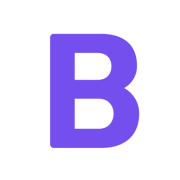
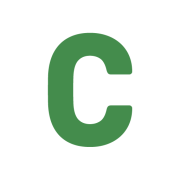
change site name

Changed region(s): [[0.25, 0.1667, 0.7778, 0.8333]]

diff --git a/components/Logo.vue b/components/Logo.vue
@@ -1,85 +1,40 @@
 <template>
   <h1 class="logo">
-    <svg class="logoImg" xmlns="http://www.w3.org/2000/svg" viewBox="0 0 125.89 16.23">
-      <title>Brueghel</title>
-      <g stroke="#7f7f7f">
-        <path
-          d="M.75,12.19c-.11,0-.2-.04-.27-.12-.07-.08-.11-.18-.11-.3V.96c0-.12,.04-.22,.11-.3,.07-.08,.16-.12,.27-.12H5.33c.86,0,1.56,.13,2.12,.4,.55,.27,.96,.65,1.22,1.14,.26,.49,.4,1.08,.4,1.76,0,.4-.07,.75-.2,1.06-.13,.3-.3,.56-.5,.76-.19,.2-.38,.34-.55,.43,.38,.2,.72,.53,1.01,.98,.29,.46,.44,.99,.44,1.6,0,.73-.15,1.36-.44,1.89-.3,.53-.73,.93-1.29,1.21-.57,.28-1.26,.42-2.08,.42H.75ZM3.06,5.17h1.96c.41,0,.72-.12,.92-.35,.21-.23,.31-.53,.31-.9s-.1-.65-.31-.87-.51-.34-.92-.34h-1.96v2.46Zm0,4.86h2.1c.43,0,.75-.14,.97-.42,.22-.28,.33-.59,.33-.95,0-.39-.11-.72-.34-.98-.23-.27-.55-.4-.97-.4H3.06v2.75Z"
-          style="fill: #fff; stroke-miterlimit: 10; stroke-width: 0.75px"
-        />
-        <path
-          d="M11.14,12.19c-.11,0-.2-.04-.27-.12-.07-.08-.11-.18-.11-.3V3.95c0-.11,.04-.21,.11-.29,.07-.08,.16-.12,.27-.12h1.73c.11,0,.2,.04,.27,.12,.07,.08,.11,.18,.11,.29v.67c.27-.34,.59-.61,.97-.8,.38-.19,.8-.28,1.27-.28h.66c.1,0,.19,.04,.26,.12s.11,.18,.11,.3v1.71c0,.11-.04,.21-.11,.29-.08,.08-.16,.12-.26,.12h-1.46c-.41,0-.73,.12-.95,.38-.23,.25-.34,.6-.34,1.06v4.26c0,.12-.04,.22-.11,.3-.08,.08-.17,.12-.28,.12h-1.86Z"
-          style="fill: #fff; stroke-miterlimit: 10; stroke-width: 0.75px"
-        />
-        <path
-          d="M20.44,12.36c-.57,0-1.08-.14-1.52-.43-.45-.29-.79-.71-1.04-1.27-.25-.56-.38-1.25-.38-2.06V3.95c0-.12,.04-.22,.11-.3,.07-.08,.16-.12,.27-.12h1.88c.11,0,.2,.04,.27,.12,.07,.08,.1,.18,.1,.3v4.54c0,1.09,.44,1.63,1.32,1.63,.41,0,.74-.14,.98-.42s.37-.68,.37-1.21V3.95c0-.12,.03-.22,.1-.3s.16-.12,.27-.12h1.88c.11,0,.2,.04,.27,.12s.11,.18,.11,.3v7.82c0,.12-.04,.22-.11,.3-.07,.08-.16,.12-.27,.12h-1.74c-.1,0-.19-.04-.26-.12-.08-.08-.11-.18-.11-.3v-.63c-.26,.4-.6,.7-1.01,.91s-.91,.31-1.48,.31Z"
-          style="fill: #fff; stroke-miterlimit: 10; stroke-width: 0.75px"
-        />
-        <path
-          d="M30.79,12.36c-1.18,0-2.12-.35-2.82-1.06s-1.07-1.76-1.09-3.16v-.58c.03-.88,.21-1.63,.53-2.25s.77-1.1,1.35-1.43,1.25-.49,2.02-.49c.88,0,1.61,.19,2.18,.58s1.01,.92,1.3,1.58c.29,.67,.43,1.43,.43,2.28v.4c0,.12-.04,.22-.11,.3-.08,.08-.16,.12-.26,.12h-4.8v.12c0,.32,.06,.62,.15,.88,.09,.27,.23,.48,.42,.63,.19,.16,.42,.23,.69,.23,.2,0,.37-.04,.5-.11s.25-.16,.34-.25c.09-.09,.16-.17,.21-.24,.09-.11,.16-.18,.22-.21,.05-.03,.14-.04,.26-.04h1.86c.1,0,.18,.03,.25,.09,.07,.06,.09,.15,.08,.26-.01,.19-.1,.42-.26,.68-.16,.27-.39,.53-.7,.79s-.69,.47-1.15,.64c-.46,.17-1,.25-1.6,.25Zm-1.28-5.38h2.54v-.03c0-.35-.05-.67-.14-.93s-.24-.47-.43-.62c-.2-.14-.43-.22-.7-.22s-.5,.07-.68,.22c-.18,.14-.33,.35-.43,.62-.1,.27-.15,.58-.15,.93v.03Z"
-          style="fill: #fff; stroke-miterlimit: 10; stroke-width: 0.75px"
-        />
-        <path
-          d="M39.93,15.85c-.77,0-1.41-.11-1.91-.33-.51-.22-.91-.49-1.2-.8-.29-.31-.51-.62-.64-.92-.13-.31-.2-.55-.21-.72,0-.12,.02-.22,.11-.3,.08-.08,.17-.12,.28-.12h1.91c.09,0,.17,.03,.23,.08s.12,.14,.16,.26c.05,.12,.12,.25,.2,.38s.21,.24,.36,.32c.16,.08,.37,.12,.64,.12,.3,0,.55-.05,.75-.16s.35-.28,.45-.52,.15-.56,.15-.96v-1.12c-.23,.28-.53,.5-.89,.67-.36,.17-.79,.26-1.3,.26s-.96-.08-1.35-.25c-.39-.17-.72-.42-.98-.75s-.46-.74-.61-1.21c-.14-.48-.23-1.03-.26-1.65,0-.29,0-.58,0-.87,.03-.6,.12-1.14,.26-1.61,.14-.48,.34-.89,.61-1.23,.26-.34,.59-.61,.98-.79,.39-.18,.84-.27,1.35-.27,.54,0,1,.11,1.39,.34s.7,.51,.95,.86v-.62c0-.11,.04-.21,.11-.29,.07-.08,.16-.12,.27-.12h1.73c.11,0,.2,.04,.28,.12,.08,.08,.11,.18,.11,.29V11.96c0,.84-.16,1.55-.46,2.13-.31,.58-.75,1.02-1.33,1.31-.58,.3-1.29,.45-2.12,.45Zm-.1-6.01c.32,0,.58-.08,.78-.23,.2-.16,.35-.35,.44-.6,.1-.24,.15-.5,.16-.78,0-.12,.01-.29,.01-.52s0-.39-.01-.5c-.01-.29-.06-.55-.16-.8-.09-.24-.24-.44-.44-.59s-.46-.22-.78-.22-.59,.08-.79,.23-.33,.37-.42,.63-.14,.56-.16,.88c-.01,.25-.01,.49,0,.75,.02,.32,.07,.62,.16,.88,.08,.27,.22,.48,.42,.63,.2,.16,.46,.23,.79,.23Z"
-          style="fill: #fff; stroke-miterlimit: 10; stroke-width: 0.75px"
-        />
-        <path
-          d="M45.99,12.19c-.11,0-.2-.04-.27-.12-.07-.08-.11-.18-.11-.3V.79c0-.12,.04-.22,.11-.3,.07-.08,.16-.12,.27-.12h1.92c.11,0,.2,.04,.27,.12,.07,.08,.1,.18,.1,.3v3.71c.27-.34,.6-.62,1-.82,.39-.21,.85-.31,1.37-.31,.58,0,1.1,.14,1.55,.43,.46,.29,.81,.71,1.07,1.27s.39,1.25,.39,2.06v4.64c0,.12-.04,.22-.11,.3-.07,.08-.16,.12-.27,.12h-1.94c-.1,0-.19-.04-.26-.12-.07-.08-.11-.18-.11-.3V7.23c0-.52-.11-.92-.34-1.21-.23-.28-.56-.42-1-.42-.41,0-.74,.14-.99,.42-.25,.28-.38,.68-.38,1.21v4.54c0,.12-.04,.22-.1,.3-.07,.08-.16,.12-.27,.12h-1.92Z"
-          style="fill: #fff; stroke-miterlimit: 10; stroke-width: 0.75px"
-        />
-        <path
-          d="M58.96,12.36c-1.18,0-2.12-.35-2.82-1.06s-1.07-1.76-1.09-3.16v-.58c.03-.88,.21-1.63,.53-2.25s.77-1.1,1.35-1.43,1.25-.49,2.02-.49c.88,0,1.61,.19,2.18,.58s1.01,.92,1.3,1.58c.29,.67,.43,1.43,.43,2.28v.4c0,.12-.04,.22-.11,.3-.08,.08-.16,.12-.26,.12h-4.8v.12c0,.32,.06,.62,.15,.88,.09,.27,.23,.48,.42,.63,.19,.16,.42,.23,.69,.23,.2,0,.37-.04,.5-.11s.25-.16,.34-.25c.09-.09,.16-.17,.21-.24,.09-.11,.16-.18,.22-.21,.05-.03,.14-.04,.26-.04h1.86c.1,0,.18,.03,.25,.09,.07,.06,.09,.15,.08,.26-.01,.19-.1,.42-.26,.68-.16,.27-.39,.53-.7,.79s-.69,.47-1.15,.64c-.46,.17-1,.25-1.6,.25Zm-1.28-5.38h2.54v-.03c0-.35-.05-.67-.14-.93s-.24-.47-.43-.62c-.2-.14-.43-.22-.7-.22s-.5,.07-.68,.22c-.18,.14-.33,.35-.43,.62-.1,.27-.15,.58-.15,.93v.03Z"
-          style="fill: #fff; stroke-miterlimit: 10; stroke-width: 0.75px"
-        />
-        <path
-          d="M64.65,12.19c-.11,0-.2-.04-.27-.12-.07-.08-.11-.18-.11-.3V.79c0-.12,.04-.22,.11-.3,.07-.08,.16-.12,.27-.12h1.77c.11,0,.2,.04,.27,.12,.07,.08,.11,.18,.11,.3V11.78c0,.12-.04,.22-.11,.3-.07,.08-.16,.12-.27,.12h-1.77Z"
-          style="fill: #fff; stroke-miterlimit: 10; stroke-width: 0.75px"
-        />
-      </g>
-      <g fill="#7f7f7f">
-        <path
-          d="M70.91,6.78c-.05,0-.09-.02-.12-.05-.03-.04-.05-.09-.05-.15v-.61c0-.06,.02-.1,.05-.14,.03-.04,.07-.06,.12-.06h.64c.05,0,.09,.02,.13,.06,.03,.04,.05,.09,.05,.14v.61c0,.06-.02,.11-.05,.15-.03,.04-.07,.05-.13,.05h-.64Zm.03,5.1s-.09-.02-.12-.06c-.03-.04-.05-.09-.05-.14v-3.97c0-.06,.02-.1,.05-.14,.03-.04,.07-.06,.12-.06h.58c.05,0,.09,.02,.12,.06s.05,.09,.05,.14v3.97c0,.06-.01,.1-.05,.14s-.07,.06-.12,.06h-.58Z"
-        />
-        <path
-          d="M72.79,11.88s-.09-.02-.12-.06c-.03-.04-.05-.09-.05-.14v-3.97c0-.06,.02-.1,.05-.14,.03-.04,.07-.06,.12-.06h.55s.09,.02,.12,.06,.05,.09,.05,.14v.29c.1-.16,.23-.29,.4-.4,.17-.11,.36-.17,.59-.17,.53-.01,.9,.24,1.11,.75,.11-.22,.26-.4,.47-.54,.2-.14,.43-.21,.68-.21s.46,.07,.66,.2c.2,.13,.36,.34,.47,.61,.11,.27,.17,.61,.17,1.03v2.41c0,.06-.02,.1-.05,.14s-.07,.06-.12,.06h-.58s-.09-.02-.12-.06-.05-.09-.05-.14v-2.35c0-.25-.03-.45-.09-.6-.06-.15-.14-.25-.24-.32-.1-.06-.22-.09-.34-.09-.1,0-.21,.03-.31,.09-.1,.06-.19,.17-.25,.32-.07,.15-.1,.35-.1,.6v2.35c0,.06-.02,.1-.05,.14s-.07,.06-.12,.06h-.58c-.05,0-.09-.02-.12-.06s-.05-.09-.05-.14v-2.35c0-.25-.03-.45-.1-.6s-.15-.25-.25-.32c-.1-.06-.21-.09-.33-.09-.11,0-.21,.03-.32,.1-.1,.06-.19,.17-.25,.32s-.1,.34-.1,.6v2.35c0,.06-.02,.1-.05,.14s-.07,.06-.12,.06h-.59Z"
-        />
-        <path
-          d="M80.01,11.96c-.24,0-.46-.06-.66-.17s-.35-.27-.47-.46c-.11-.19-.17-.41-.17-.65,0-.39,.13-.7,.4-.94,.26-.23,.61-.39,1.05-.47l.96-.17v-.18c0-.24-.05-.42-.15-.55-.1-.13-.27-.19-.5-.19-.17,0-.31,.04-.41,.12-.1,.08-.18,.19-.23,.32-.04,.07-.09,.11-.16,.11h-.55c-.05,0-.09-.02-.11-.05-.03-.03-.04-.08-.04-.13,0-.09,.03-.2,.09-.33,.06-.13,.15-.25,.27-.37s.28-.22,.47-.31,.42-.13,.69-.13c.3,0,.54,.04,.75,.13,.2,.09,.36,.2,.49,.35,.12,.15,.21,.32,.27,.51,.06,.2,.08,.4,.08,.62v2.64c0,.06-.02,.1-.05,.14s-.07,.06-.12,.06h-.57c-.05,0-.09-.02-.12-.06-.03-.04-.05-.09-.05-.14v-.33c-.06,.11-.14,.21-.24,.3-.1,.09-.23,.17-.38,.23-.15,.06-.32,.09-.52,.09Zm.24-.8c.16,0,.31-.04,.45-.13,.13-.08,.24-.22,.32-.39s.12-.4,.12-.67v-.18l-.7,.13c-.28,.05-.48,.13-.62,.24-.13,.11-.2,.25-.2,.41,0,.12,.03,.23,.09,.32,.06,.09,.14,.15,.24,.19,.1,.04,.2,.06,.31,.06Z"
-        />
-        <path
-          d="M84.6,13.73c-.34,0-.62-.05-.84-.16-.22-.11-.39-.24-.52-.39-.13-.15-.22-.3-.27-.45s-.08-.26-.09-.35c0-.06,.01-.1,.05-.15,.03-.04,.08-.06,.12-.06h.61s.08,.01,.11,.04c.03,.03,.05,.07,.07,.14,.03,.07,.07,.15,.11,.24,.05,.08,.12,.16,.21,.21s.23,.09,.4,.09c.18,0,.33-.03,.45-.09,.12-.06,.21-.17,.28-.31s.09-.35,.09-.61v-.57c-.11,.16-.26,.29-.43,.4-.18,.1-.39,.15-.65,.15s-.47-.05-.65-.15-.33-.24-.46-.41c-.12-.18-.21-.39-.28-.63-.06-.24-.1-.51-.11-.8,0-.15,0-.3,0-.45,0-.28,.04-.54,.11-.78,.06-.24,.15-.45,.28-.63,.12-.18,.28-.32,.46-.42s.4-.15,.65-.15c.27,0,.49,.06,.67,.18s.33,.27,.45,.45v-.34c0-.06,.02-.11,.05-.15s.07-.06,.12-.06h.57s.09,.02,.12,.06,.05,.09,.05,.15v4.05c0,.4-.06,.75-.18,1.04-.13,.29-.32,.52-.57,.68-.26,.16-.58,.24-.98,.24Zm-.03-2.77c.19,0,.35-.05,.46-.15,.12-.1,.2-.23,.26-.39s.09-.33,.1-.5c0-.07,0-.16,0-.28s0-.2,0-.27c0-.17-.04-.34-.1-.5-.06-.16-.14-.29-.26-.4-.12-.1-.27-.16-.46-.16s-.35,.05-.46,.16c-.12,.1-.2,.24-.25,.41-.05,.17-.08,.35-.09,.55,0,.13,0,.27,0,.41,0,.2,.04,.38,.09,.55,.05,.17,.13,.31,.25,.41,.12,.1,.27,.15,.46,.15Z"
-        />
-        <path
-          d="M88.85,11.96c-.52,0-.93-.18-1.23-.54-.3-.36-.47-.87-.49-1.53,0-.06,0-.13,0-.21s0-.16,0-.21c.02-.42,.1-.78,.24-1.09,.14-.31,.34-.55,.59-.71,.25-.17,.55-.25,.89-.25,.38,0,.7,.09,.95,.28,.26,.19,.45,.45,.58,.78s.2,.72,.2,1.16v.18c0,.06-.02,.1-.05,.14s-.07,.06-.13,.06h-2.33v.07c0,.2,.04,.38,.09,.54,.06,.17,.14,.3,.26,.4,.11,.1,.25,.15,.41,.15,.13,0,.24-.02,.33-.07,.09-.05,.16-.1,.22-.16,.06-.06,.1-.11,.12-.15,.04-.07,.08-.11,.1-.12,.03-.01,.06-.02,.12-.02h.6s.09,.02,.12,.05,.04,.08,.04,.13c0,.09-.04,.2-.11,.33-.07,.13-.18,.26-.31,.38-.14,.12-.31,.23-.51,.31-.2,.08-.44,.12-.7,.12Zm-.77-2.65h1.55v-.03c0-.22-.03-.41-.09-.57-.06-.16-.15-.29-.27-.39-.12-.09-.26-.14-.42-.14s-.3,.05-.42,.14c-.12,.1-.2,.22-.26,.39-.06,.16-.09,.35-.09,.57v.03Z"
-        />
-        <path
-          d="M94.5,11.96c-.34,0-.63-.08-.89-.23-.26-.15-.45-.37-.6-.66-.14-.29-.22-.64-.24-1.05,0-.08,0-.2,0-.33s0-.25,0-.34c.01-.41,.09-.76,.24-1.05,.14-.29,.34-.51,.6-.66,.26-.15,.55-.23,.89-.23,.3,0,.55,.05,.76,.15,.21,.1,.38,.23,.52,.38,.13,.15,.24,.31,.3,.47s.1,.32,.11,.45c0,.06-.01,.11-.05,.15-.04,.04-.08,.05-.12,.05h-.62s-.08-.01-.11-.04c-.03-.03-.05-.07-.07-.13-.07-.22-.16-.38-.28-.48-.11-.09-.26-.14-.44-.14-.23,0-.42,.09-.56,.26-.14,.18-.21,.46-.22,.84,0,.21,0,.41,0,.59,0,.39,.08,.67,.22,.84,.14,.17,.32,.26,.56,.26,.18,0,.33-.05,.44-.14,.11-.09,.2-.25,.27-.47,.02-.06,.05-.1,.07-.13s.06-.04,.11-.04h.62s.09,.02,.12,.05c.03,.04,.05,.09,.05,.15,0,.1-.03,.22-.07,.34-.04,.13-.1,.26-.19,.39s-.2,.25-.33,.36-.29,.2-.47,.26-.4,.1-.64,.1Z"
-        />
-        <path
-          d="M98.55,11.96c-.37,0-.69-.08-.94-.24-.26-.16-.45-.38-.58-.66s-.21-.62-.23-1c0-.1,0-.22,0-.37s0-.27,0-.37c.02-.39,.1-.72,.24-1,.14-.28,.33-.5,.59-.66,.26-.16,.57-.24,.93-.24s.67,.08,.93,.24c.26,.16,.45,.38,.59,.66,.14,.28,.22,.62,.23,1,0,.1,0,.22,0,.37s0,.27,0,.37c-.02,.38-.09,.71-.23,1-.13,.29-.33,.51-.58,.66-.26,.16-.57,.24-.94,.24Zm0-.83c.25,0,.44-.09,.57-.28s.21-.46,.22-.83c0-.08,0-.19,0-.33s0-.24,0-.33c-.01-.36-.09-.63-.22-.82s-.33-.29-.57-.29-.44,.09-.58,.29c-.13,.19-.21,.47-.22,.82,0,.08,0,.19,0,.33s0,.24,0,.33c.01,.36,.09,.64,.22,.83,.14,.19,.33,.28,.58,.28Z"
-        />
-        <path
-          d="M101.25,11.88s-.09-.02-.12-.06c-.03-.04-.05-.09-.05-.14v-3.97c0-.06,.02-.1,.05-.14,.03-.04,.07-.06,.12-.06h.57s.09,.02,.12,.06,.05,.09,.05,.14v.34c.12-.18,.28-.33,.47-.45,.19-.12,.42-.18,.7-.18s.53,.08,.74,.23c.21,.15,.37,.37,.49,.65,.11,.28,.17,.62,.17,1.01v2.36c0,.06-.02,.1-.05,.14s-.07,.06-.12,.06h-.62s-.09-.02-.12-.06-.05-.09-.05-.14v-2.31c0-.32-.07-.58-.2-.76-.13-.19-.33-.28-.58-.28s-.44,.09-.58,.28c-.15,.18-.22,.44-.22,.76v2.31c0,.06-.02,.1-.05,.14s-.07,.06-.12,.06h-.62Z"
-        />
-        <path
-          d="M106.75,11.88c-.07,0-.13-.02-.17-.06-.03-.04-.06-.09-.09-.15l-1.31-3.9s-.01-.05-.01-.08c0-.05,.02-.09,.05-.13,.03-.04,.07-.05,.11-.05h.57c.06,0,.1,.02,.13,.05s.05,.07,.06,.11l.93,2.95,.93-2.95s.03-.07,.06-.11c.03-.04,.07-.05,.13-.05h.58s.07,.02,.1,.05,.05,.08,.05,.13c0,.02,0,.05,0,.08l-1.32,3.9c-.02,.06-.05,.1-.08,.15-.04,.04-.09,.06-.17,.06h-.52Z"
-        />
-        <path
-          d="M111.06,11.96c-.52,0-.93-.18-1.23-.54-.3-.36-.47-.87-.49-1.53,0-.06,0-.13,0-.21s0-.16,0-.21c.02-.42,.1-.78,.24-1.09,.14-.31,.34-.55,.59-.71,.25-.17,.55-.25,.89-.25,.38,0,.7,.09,.95,.28,.26,.19,.45,.45,.58,.78s.2,.72,.2,1.16v.18c0,.06-.02,.1-.05,.14s-.07,.06-.13,.06h-2.33v.07c0,.2,.04,.38,.09,.54,.06,.17,.14,.3,.26,.4,.11,.1,.25,.15,.41,.15,.13,0,.24-.02,.33-.07,.09-.05,.16-.1,.22-.16,.06-.06,.1-.11,.12-.15,.04-.07,.08-.11,.1-.12,.03-.01,.06-.02,.12-.02h.6s.09,.02,.12,.05,.04,.08,.04,.13c0,.09-.04,.2-.11,.33-.07,.13-.18,.26-.31,.38-.14,.12-.31,.23-.51,.31-.2,.08-.44,.12-.7,.12Zm-.77-2.65h1.55v-.03c0-.22-.03-.41-.09-.57-.06-.16-.15-.29-.27-.39-.12-.09-.26-.14-.42-.14s-.3,.05-.42,.14c-.12,.1-.2,.22-.26,.39-.06,.16-.09,.35-.09,.57v.03Z"
-        />
-        <path
-          d="M113.7,11.88s-.09-.02-.12-.06c-.03-.04-.05-.09-.05-.14v-3.96c0-.06,.02-.11,.05-.15,.03-.04,.07-.06,.12-.06h.57s.09,.02,.12,.06c.03,.04,.05,.09,.05,.15v.34c.11-.18,.25-.32,.42-.41,.17-.1,.37-.14,.59-.14h.29c.05,0,.09,.02,.12,.06s.05,.09,.05,.14v.61c0,.06-.02,.1-.05,.14s-.07,.06-.12,.06h-.55c-.22,0-.4,.08-.52,.23-.12,.15-.19,.36-.19,.62v2.31c0,.06-.02,.1-.05,.14s-.07,.06-.13,.06h-.61Z"
-        />
-        <path
-          d="M118.11,11.88c-.28,0-.52-.06-.71-.18-.19-.12-.33-.29-.43-.53-.09-.23-.14-.52-.14-.87v-1.91h-.55s-.09-.02-.12-.06c-.03-.04-.05-.09-.05-.14v-.49c0-.06,.02-.1,.05-.14s.07-.06,.12-.06h.55v-1.4c0-.06,.02-.1,.05-.14,.03-.04,.07-.06,.12-.06h.57s.09,.02,.12,.06,.05,.09,.05,.14v1.4h.88s.09,.02,.12,.06,.05,.09,.05,.14v.49c0,.06-.02,.1-.05,.14-.03,.04-.07,.06-.12,.06h-.88v1.82c0,.23,.03,.41,.1,.54,.07,.13,.19,.19,.35,.19h.48s.09,.02,.12,.06,.05,.09,.05,.14v.52c0,.06-.02,.1-.05,.14s-.07,.06-.12,.06h-.57Z"
-        />
-        <path
-          d="M121.04,11.96c-.52,0-.93-.18-1.23-.54-.3-.36-.47-.87-.49-1.53,0-.06,0-.13,0-.21s0-.16,0-.21c.02-.42,.1-.78,.24-1.09,.14-.31,.34-.55,.59-.71,.25-.17,.55-.25,.89-.25,.38,0,.7,.09,.95,.28,.26,.19,.45,.45,.58,.78s.2,.72,.2,1.16v.18c0,.06-.02,.1-.05,.14s-.07,.06-.13,.06h-2.33v.07c0,.2,.04,.38,.09,.54,.06,.17,.14,.3,.26,.4,.11,.1,.25,.15,.41,.15,.13,0,.24-.02,.33-.07,.09-.05,.16-.1,.22-.16,.06-.06,.1-.11,.12-.15,.04-.07,.08-.11,.1-.12,.03-.01,.06-.02,.12-.02h.6s.09,.02,.12,.05,.04,.08,.04,.13c0,.09-.04,.2-.11,.33-.07,.13-.18,.26-.31,.38-.14,.12-.31,.23-.51,.31-.2,.08-.44,.12-.7,.12Zm-.77-2.65h1.55v-.03c0-.22-.03-.41-.09-.57-.06-.16-.15-.29-.27-.39-.12-.09-.26-.14-.42-.14s-.3,.05-.42,.14c-.12,.1-.2,.22-.26,.39-.06,.16-.09,.35-.09,.57v.03Z"
-        />
-        <path
-          d="M123.68,11.88s-.09-.02-.12-.06c-.03-.04-.05-.09-.05-.14v-3.96c0-.06,.02-.11,.05-.15,.03-.04,.07-.06,.12-.06h.57s.09,.02,.12,.06c.03,.04,.05,.09,.05,.15v.34c.11-.18,.25-.32,.42-.41,.17-.1,.37-.14,.59-.14h.29c.05,0,.09,.02,.12,.06s.05,.09,.05,.14v.61c0,.06-.02,.1-.05,.14s-.07,.06-.12,.06h-.55c-.22,0-.4,.08-.52,.23-.12,.15-.19,.36-.19,.62v2.31c0,.06-.02,.1-.05,.14s-.07,.06-.13,.06h-.61Z"
-        />
-      </g>
+    <svg class="logoImg" xmlns="http://www.w3.org/2000/svg" viewBox="0 0 69.33 10.43">
+      <title>Convertible</title>
+      <path
+        d="M3.72,10.43c-.76,0-1.41-.14-1.95-.43s-.96-.71-1.26-1.27C.21,8.16,.04,7.47,.01,6.64c0-.38-.01-.79-.01-1.23s0-.86,.01-1.26c.03-.81,.2-1.5,.5-2.06,.3-.56,.73-.99,1.27-1.29s1.19-.44,1.93-.44c.53,0,1.02,.08,1.46,.23,.45,.15,.84,.38,1.18,.67s.6,.65,.79,1.06c.19,.42,.29,.88,.29,1.41,0,.08-.01,.15-.07,.21-.05,.06-.11,.08-.19,.08h-1.62c-.1,0-.18-.03-.24-.08-.06-.05-.1-.15-.14-.29-.11-.5-.29-.83-.55-1.02-.25-.18-.56-.27-.93-.27-.44,0-.79,.14-1.04,.43-.26,.28-.4,.76-.42,1.42-.02,.77-.02,1.55,0,2.35,.02,.66,.16,1.14,.42,1.42,.26,.28,.6,.43,1.04,.43,.37,0,.68-.09,.94-.28s.44-.52,.54-1.01c.03-.14,.08-.24,.14-.29,.06-.05,.14-.08,.25-.08h1.62c.07,0,.13,.03,.19,.08,.05,.06,.07,.13,.07,.21,0,.52-.11,.99-.29,1.41-.19,.42-.45,.77-.79,1.06s-.73,.52-1.18,.67-.94,.23-1.46,.23Z"
+      />
+      <path
+        d="M11.52,10.43c-.67,0-1.24-.13-1.7-.38s-.81-.61-1.06-1.08c-.24-.47-.38-1.03-.41-1.69,0-.19-.01-.4-.01-.64s0-.45,.01-.62c.03-.66,.18-1.23,.43-1.69s.61-.83,1.07-1.08,1.01-.38,1.66-.38,1.21,.13,1.67,.38,.82,.61,1.07,1.08,.4,1.03,.43,1.69c0,.18,.01,.39,.01,.62s0,.45-.01,.64c-.03,.65-.17,1.22-.41,1.69-.24,.47-.6,.83-1.06,1.08s-1.03,.38-1.71,.38Zm0-1.71c.36,0,.62-.13,.79-.38s.26-.63,.28-1.13c0-.14,.01-.33,.01-.56s0-.42-.01-.56c-.02-.49-.12-.87-.28-1.13s-.43-.38-.79-.38-.61,.13-.78,.38-.26,.63-.28,1.13c0,.14-.01,.33-.01,.56s0,.42,.01,.56c.02,.5,.11,.88,.28,1.13s.43,.38,.78,.38Z"
+      />
+      <path
+        d="M16.19,10.29c-.09,0-.16-.03-.22-.1s-.08-.15-.08-.25V3.36c0-.1,.03-.19,.08-.25,.06-.06,.13-.1,.22-.1h1.38c.09,0,.16,.03,.22,.1,.06,.07,.08,.15,.08,.25v.53c.21-.29,.48-.53,.82-.73,.34-.2,.73-.29,1.19-.29s.87,.12,1.23,.36c.36,.24,.64,.6,.84,1.07,.2,.47,.31,1.05,.31,1.73v3.91c0,.1-.03,.19-.09,.25-.06,.07-.13,.1-.21,.1h-1.51c-.08,0-.15-.03-.21-.1-.06-.07-.09-.15-.09-.25v-3.82c0-.44-.09-.78-.27-1.02-.18-.24-.45-.36-.8-.36-.33,0-.59,.12-.79,.36-.2,.24-.29,.58-.29,1.02v3.82c0,.1-.03,.19-.09,.25-.06,.07-.13,.1-.21,.1h-1.5Z"
+      />
+      <path
+        d="M25.81,10.29c-.12,0-.21-.04-.26-.11-.06-.07-.1-.15-.14-.24l-2.27-6.5s-.02-.08-.02-.13c0-.08,.03-.16,.08-.22,.05-.06,.12-.09,.2-.09h1.36c.1,0,.18,.03,.24,.1,.06,.07,.09,.13,.11,.2l1.36,4.3,1.37-4.3c.02-.07,.05-.13,.11-.2,.06-.06,.14-.1,.24-.1h1.36c.07,0,.14,.03,.19,.09,.06,.06,.08,.13,.08,.22,0,.05,0,.09-.02,.13l-2.27,6.5c-.03,.09-.08,.17-.14,.24-.06,.07-.15,.11-.28,.11h-1.27Z"
+      />
+      <path
+        d="M33.61,10.43c-.94,0-1.7-.3-2.26-.9-.56-.6-.85-1.48-.88-2.66v-.49c.02-.74,.17-1.37,.43-1.9s.62-.93,1.08-1.2,1-.41,1.61-.41c.7,0,1.29,.16,1.75,.49,.46,.33,.81,.77,1.04,1.33,.23,.56,.35,1.2,.35,1.92v.34c0,.1-.03,.19-.09,.25-.06,.07-.13,.1-.21,.1h-3.84v.1c0,.27,.05,.52,.12,.74,.07,.22,.18,.4,.34,.53,.15,.13,.34,.2,.55,.2,.16,0,.29-.03,.4-.09,.11-.06,.2-.13,.27-.21,.07-.08,.13-.15,.17-.2,.07-.09,.13-.15,.17-.18,.04-.02,.11-.03,.21-.03h1.49c.08,0,.15,.03,.2,.08,.05,.05,.07,.12,.07,.22,0,.16-.08,.35-.2,.57-.13,.22-.31,.45-.56,.67-.24,.22-.55,.4-.92,.54-.37,.14-.8,.21-1.28,.21Zm-1.02-4.52h2.03v-.03c0-.3-.04-.56-.11-.78-.08-.22-.19-.4-.35-.52s-.34-.18-.56-.18-.4,.06-.55,.18c-.15,.12-.26,.29-.34,.52-.08,.22-.12,.49-.12,.78v.03Z"
+      />
+      <path
+        d="M38.16,10.29c-.09,0-.16-.03-.22-.1s-.08-.15-.08-.25V3.36c0-.09,.03-.17,.08-.24,.06-.07,.13-.11,.22-.11h1.38c.09,0,.16,.04,.22,.11,.06,.07,.08,.15,.08,.24v.56c.22-.29,.47-.51,.77-.67,.3-.16,.64-.24,1.01-.24h.53c.08,0,.15,.03,.21,.1,.06,.07,.09,.15,.09,.25v1.44c0,.09-.03,.17-.09,.25-.06,.07-.13,.11-.21,.11h-1.16c-.33,0-.58,.1-.76,.31s-.27,.51-.27,.89v3.58c0,.1-.03,.19-.09,.25-.06,.07-.13,.1-.22,.1h-1.49Z"
+      />
+      <path
+        d="M46.5,10.29c-.51,0-.95-.1-1.33-.29s-.66-.49-.86-.9c-.2-.41-.3-.93-.3-1.58v-2.69h-.94c-.09,0-.16-.03-.22-.1-.06-.07-.09-.15-.09-.25v-1.13c0-.1,.03-.19,.09-.25,.06-.06,.13-.1,.22-.1h.94V.7c0-.1,.03-.19,.09-.25,.06-.06,.13-.1,.21-.1h1.39c.09,0,.16,.03,.22,.1,.06,.07,.08,.15,.08,.25V3.01h1.5c.09,0,.16,.03,.22,.1,.06,.07,.08,.15,.08,.25v1.13c0,.1-.03,.19-.08,.25s-.13,.1-.22,.1h-1.5v2.49c0,.32,.05,.57,.16,.76,.1,.19,.28,.28,.53,.28h.92c.09,0,.16,.03,.22,.1,.06,.07,.08,.15,.08,.25v1.22c0,.1-.03,.19-.08,.25-.06,.07-.13,.1-.22,.1h-1.12Z"
+      />
+      <path
+        d="M49.2,1.96c-.09,0-.16-.03-.22-.1-.06-.06-.08-.15-.08-.25V.36c0-.1,.03-.19,.08-.26,.06-.07,.13-.1,.22-.1h1.43c.09,0,.16,.04,.22,.1,.06,.07,.09,.16,.09,.26V1.61c0,.1-.03,.19-.09,.25-.06,.07-.13,.1-.22,.1h-1.43Zm.01,8.33c-.09,0-.16-.03-.22-.1s-.08-.15-.08-.25V3.36c0-.1,.03-.19,.08-.25,.06-.06,.13-.1,.22-.1h1.42c.08,0,.15,.03,.21,.1,.06,.07,.09,.15,.09,.25v6.58c0,.1-.03,.19-.09,.25-.06,.07-.13,.1-.21,.1h-1.42Z"
+      />
+      <path
+        d="M56.15,10.43c-.45,0-.82-.09-1.12-.27-.3-.18-.55-.4-.74-.67v.45c0,.1-.03,.19-.09,.25-.06,.07-.13,.1-.21,.1h-1.36c-.09,0-.16-.03-.22-.1s-.08-.15-.08-.25V.7c0-.1,.03-.19,.08-.25,.06-.06,.13-.1,.22-.1h1.46c.09,0,.16,.03,.22,.1,.06,.07,.08,.15,.08,.25V3.7c.19-.24,.43-.44,.73-.6,.29-.15,.63-.23,1.03-.23s.75,.08,1.06,.23c.31,.15,.57,.38,.79,.67,.22,.29,.38,.63,.5,1.04s.19,.85,.2,1.36c0,.18,.01,.34,.01,.48s0,.31-.01,.5c-.02,.52-.09,.99-.21,1.39s-.29,.75-.51,1.04c-.22,.28-.48,.5-.78,.64-.3,.14-.66,.22-1.06,.22Zm-.65-1.88c.27,0,.48-.06,.64-.2,.15-.13,.26-.31,.33-.53,.07-.22,.11-.47,.13-.74,.02-.29,.02-.58,0-.87-.02-.27-.06-.52-.13-.74-.07-.22-.18-.4-.33-.53-.15-.13-.36-.2-.64-.2-.25,0-.45,.06-.61,.19s-.28,.29-.36,.49c-.08,.2-.12,.42-.13,.65,0,.18-.01,.35-.01,.52s0,.35,.01,.53c0,.25,.05,.49,.12,.7,.07,.21,.19,.39,.35,.52,.16,.14,.37,.2,.64,.2Z"
+      />
+      <path
+        d="M60.2,10.29c-.09,0-.16-.03-.22-.1s-.08-.15-.08-.25V.7c0-.1,.03-.19,.08-.25,.06-.06,.13-.1,.22-.1h1.42c.09,0,.16,.03,.22,.1,.06,.07,.08,.15,.08,.25V9.94c0,.1-.03,.19-.08,.25-.06,.07-.13,.1-.22,.1h-1.42Z"
+      />
+      <path
+        d="M66.21,10.43c-.94,0-1.7-.3-2.26-.9-.56-.6-.85-1.48-.88-2.66v-.49c.02-.74,.17-1.37,.43-1.9s.62-.93,1.08-1.2,1-.41,1.61-.41c.7,0,1.29,.16,1.75,.49,.46,.33,.81,.77,1.04,1.33,.23,.56,.35,1.2,.35,1.92v.34c0,.1-.03,.19-.09,.25-.06,.07-.13,.1-.21,.1h-3.84v.1c0,.27,.05,.52,.12,.74,.07,.22,.18,.4,.34,.53,.15,.13,.34,.2,.55,.2,.16,0,.29-.03,.4-.09,.11-.06,.2-.13,.27-.21,.07-.08,.13-.15,.17-.2,.07-.09,.13-.15,.17-.18,.04-.02,.11-.03,.21-.03h1.49c.08,0,.15,.03,.2,.08,.05,.05,.07,.12,.07,.22,0,.16-.08,.35-.2,.57-.13,.22-.31,.45-.56,.67-.24,.22-.55,.4-.92,.54-.37,.14-.8,.21-1.28,.21Zm-1.02-4.52h2.03v-.03c0-.3-.04-.56-.11-.78-.08-.22-.19-.4-.35-.52s-.34-.18-.56-.18-.4,.06-.55,.18c-.15,.12-.26,.29-.34,.52-.08,.22-.12,.49-.12,.78v.03Z"
+      />
     </svg>
   </h1>
 </template>
@@ -100,14 +55,14 @@ export default {
 <style lang="scss" scoped>
 .logo {
   position: absolute;
-  top: 18px;
-  left: 32px;
+  top: 21px;
+  left: 50px;
 }
 
 .logoImg {
   display: block;
   width: inherit;
-  height: 28px;
+  height: 18px;
+  fill: var(--color8);
 }
-
 </style>

diff --git a/nuxt.config.js b/nuxt.config.js
@@ -1,50 +1,76 @@
 export default {
   // Global page headers: https://go.nuxtjs.dev/config-head
   head: {
-    title: 'Brueghel | 画像変換ツール',
+    title: 'Convertible',
     htmlAttrs: {
       lang: 'ja',
-      prefix: 'og: http://ogp.me/ns#'
+      prefix: 'og: http://ogp.me/ns#',
     },
     meta: [
       { charset: 'utf-8' },
       { name: 'viewport', content: 'width=device-width, initial-scale=1' },
-      { hid: 'description', name: 'description', content: 'Web制作者向けの画像変換サイトです。WebPへの変換にも対応しております。' },
-      { hid: 'keywords', name: 'keywords', content: 'web,jpeg,png,gif,webp,avif' },
+      {
+        hid: 'description',
+        name: 'description',
+        content: 'Web制作者向けの画像変換サイトです。WebPへの変換にも対応しております。',
+      },
+      {
+        hid: 'keywords',
+        name: 'keywords',
+        content: 'web,jpeg,png,gif,webp,avif',
+      },
       { name: 'format-detection', content: 'telephone=no' },
       { 'http-equiv': 'X-UA-Compatible', content: 'IE=edge' },
 
       // OGP設定
-      { hid: 'og:site_name', property: 'og:site_name', content: 'Brueghel' },
+      { hid: 'og:site_name', property: 'og:site_name', content: 'Convertible' },
       { hid: 'og:type', property: 'og:type', content: 'website' },
-      { hid: 'og:url', property: 'og:url', content: 'https://brueghel.shuuu.jp/' },
-      { hid: 'og:title', property: 'og:title', content: 'Brueghel | 画像変換ツール' },
-      { hid: 'og:description', property: 'og:description', content: 'Web制作者向けの画像変換サイトです。WebPへの変換にも対応しております。' },
-      { hid: 'og:image', property: 'og:image', content: 'https://brueghel.shuuu.jp/ogp.png' },
+      {
+        hid: 'og:url',
+        property: 'og:url',
+        content: 'https://shuuu.jp/works/convertible-nuxt',
+      },
+      { hid: 'og:title', property: 'og:title', content: 'Convertible' },
+      {
+        hid: 'og:description',
+        property: 'og:description',
+        content: 'Web制作者向けの画像変換サイトです。WebPへの変換にも対応しております。',
+      },
+      {
+        hid: 'og:image',
+        property: 'og:image',
+        content: 'https://shuuu.jp/works/convertible-nuxt/ogp.png',
+      },
 
       // Twitter
-      { hid: 'twitter:card', name: 'twitter:card', content: 'summary_large_image' },
-      { hid: 'twitter:site', name: 'twitter:site', content: '@shuuu612' }
+      {
+        hid: 'twitter:card',
+        name: 'twitter:card',
+        content: 'summary_large_image',
+      },
+      { hid: 'twitter:site', name: 'twitter:site', content: '@shuuu612' },
     ],
     link: [
       { rel: 'icon', type: 'image/x-icon', href: '/favicon.ico' },
-      { rel: 'apple-touch-icon', href: '/apple-touch-icon.png', sizes: '180x180'},
-      { rel: 'preconnect', href: 'https://fonts.googleapis.com'},
-      { rel: 'preconnect', href: 'https://fonts.gstatic.com', crossorigin: ''},
-      { rel: 'stylesheet', href: 'https://fonts.googleapis.com/css2?family=Noto+Sans+JP:wght@300;400;500;700&display=swap'},
-    ]
+      {
+        rel: 'apple-touch-icon',
+        href: '/apple-touch-icon.png',
+        sizes: '180x180',
+      },
+      { rel: 'preconnect', href: 'https://fonts.googleapis.com' },
+      { rel: 'preconnect', href: 'https://fonts.gstatic.com', crossorigin: '' },
+      {
+        rel: 'stylesheet',
+        href: 'https://fonts.googleapis.com/css2?family=Noto+Sans+JP:wght@300;400;500;700&display=swap',
+      },
+    ],
   },
 
   // Global CSS: https://go.nuxtjs.dev/config-css
-  css: [
-    '@/assets/scss/ress.scss',
-    '@/assets/scss/common.scss'
-  ],
+  css: ['@/assets/scss/ress.scss', '@/assets/scss/common.scss'],
 
   // Plugins to run before rendering page: https://go.nuxtjs.dev/config-plugins
-  plugins: [
-    '@/plugins/constants.js',
-  ],
+  plugins: ['@/plugins/constants.js'],
 
   // Auto import components: https://go.nuxtjs.dev/config-components
   components: true,
@@ -69,15 +95,13 @@ export default {
   },
 
   proxy: {
-    '/dev/': { target: 'https://0nw778k56a.execute-api.ap-northeast-1.amazonaws.com' }
+    '/dev/': {
+      target: 'https://0nw778k56a.execute-api.ap-northeast-1.amazonaws.com',
+    },
   },
 
   styleResources: {
-    scss: [
-      '@/assets/scss/mixin.scss',
-      '@/assets/scss/font.scss',
-      '@/assets/scss/color.scss',
-    ]
+    scss: ['@/assets/scss/mixin.scss', '@/assets/scss/font.scss', '@/assets/scss/color.scss'],
   },
 
   // Build Configuration: https://go.nuxtjs.dev/config-build
@@ -85,10 +109,14 @@ export default {
     terser: {
       terserOptions: {
         compress: {
-          drop_console: process.env.NODE_ENV === "production"
-        }
-      }
+          drop_console: process.env.NODE_ENV === 'production',
+        },
+      },
     },
+  },
+
+  router: {
+    base: process.env.NODE_ENV === 'production' ? '/works/convertible-nuxt' : '/',
   },
 
   generate: {
@@ -96,4 +124,4 @@ export default {
   },
 
   loading: false,
-}
+};

diff --git a/pages/index.vue b/pages/index.vue
@@ -61,7 +61,9 @@
                       d="M160.08,289.52H80.49v-77.89c0-7.18-5.82-13-13-13s-13,5.82-13,13v90.71c0,7.08,5.66,12.82,12.69,12.98,.71,.12,1.44,.2,2.18,.2h90.71c7.18,0,13-5.82,13-13s-5.82-13-13-13Z"
                     />
                   </svg>
-                  <p class="text">{{ `${file.originalWidth}×${file.originalHeight}` }}</p>
+                  <p class="text">
+                    {{ `${file.originalWidth}×${file.originalHeight}` }}
+                  </p>
                 </div>
                 <div class="setting-content capacity">
                   <svg
@@ -74,7 +76,9 @@
                       d="M451.25,138.19c0-6.78-2.02-13.53-5.96-19.29h0c-6.37-9.36-16.99-14.96-28.31-14.96h-20.56v-27.46c-.03-9.12-3.61-17.77-10.04-24.23-6.47-6.43-15.11-10.01-24.23-10.04H175.17l-10.47-22.44h0C159.07,7.71,146.95,0,133.65,0H34.27C25.15,.03,16.5,3.61,10.04,10.04,3.61,16.5,.03,25.14,0,34.27V312.96c0,1.14,.39,2.16,.66,3.23,.67,5.27,2.22,10.43,5.3,14.94h0c6.37,9.36,16.98,14.96,28.31,14.96H362.16c14.1,0,26.73-8.62,31.88-21.74l.31-.87,54.83-173.61h-.05c1.38-3.79,2.13-7.74,2.13-11.67ZM27.41,34.27c-.03-1.71,.78-3.65,2.01-4.85,1.19-1.23,3.15-2.03,4.85-2.01h99.38c2.68,0,5.07,1.53,6.21,3.96h0l14.16,30.34c2.25,4.83,7.09,7.91,12.42,7.91h195.72c1.7-.03,3.65,.78,4.85,2.01,1.23,1.2,2.03,3.14,2.01,4.85v27.46H89.09c-14.09,0-26.73,8.62-31.88,21.74l-.31,.87-29.49,93.37V34.27Zm395.94,106.45l-.32,.88-54.59,172.83c-1.04,2.52-3.53,4.24-6.29,4.24H34.27c-2.28,0-4.38-1.12-5.66-2.99h0c-.8-1.18-1.19-2.5-1.19-3.86l.47-2.49,.32-.91,54.57-172.81c1.03-2.54,3.55-4.27,6.32-4.26H416.98c2.28,0,4.38,1.12,5.66,2.99h0c.79,1.16,1.19,2.5,1.19,3.85l-.48,2.52Z"
                     />
                   </svg>
-                  <p class="text">{{ getBeforeFileSize(file.originalFileSize) }}</p>
+                  <p class="text">
+                    {{ getBeforeFileSize(file.originalFileSize) }}
+                  </p>
                 </div>
               </div>
               <svg class="setting-arrow" xmlns="http://www.w3.org/2000/svg" viewBox="0 0 451.47 324.84">
@@ -310,7 +314,9 @@
               <span class="progress front" :class="getConvertingClass" :style="getProgressStyle"></span>
             </div>
             <p class="percent">{{ getProgressPercent }}</p>
-            <p class="subject">{{ numberOfCompletedConversions + '/' + numberOfScheduledConversions }}</p>
+            <p class="subject">
+              {{ numberOfCompletedConversions + '/' + numberOfScheduledConversions }}
+            </p>
           </div>
           <div class="setting-bar-buttons">
             <Button
@@ -1021,7 +1027,7 @@ export default {
       const zip = new JSZip();
 
       // フォルダを作成
-      const folderName = `${this.getDate('second')}_brueghel`;
+      const folderName = `${this.getDate('second')}_convertible`;
       const folder = zip.folder(folderName);
 
       // ファイルに名前をつけてフォルダに格納
@@ -1068,7 +1074,7 @@ export default {
       const zip = new JSZip();
 
       // フォルダを作成
-      const folderName = `${this.getDate('second')}_brueghel`;
+      const folderName = `${this.getDate('second')}_convertible`;
       const folder = zip.folder(folderName);
 
       // ファイルに名前をつけてフォルダに格納

diff --git a/README.md b/README.md
@@ -1,6 +1,6 @@
-# brueghel
+# Convertible
 
-Brueghel is an image conversion site for web authors
+Convertible is an image conversion site for web authors
 
 ## Build Setup
 
